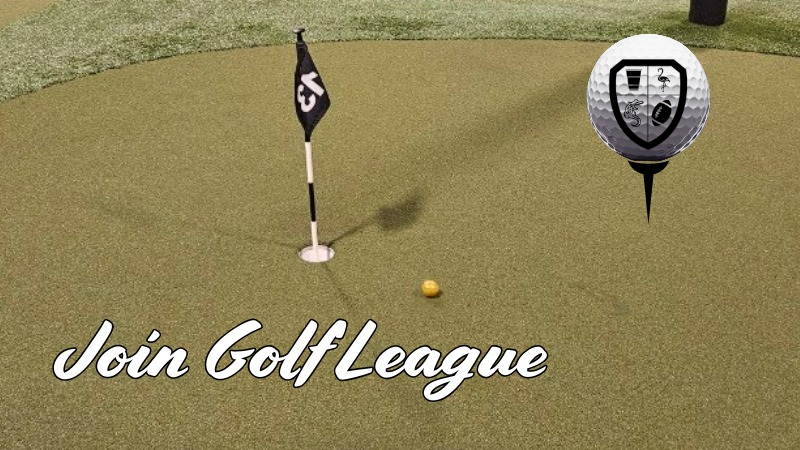
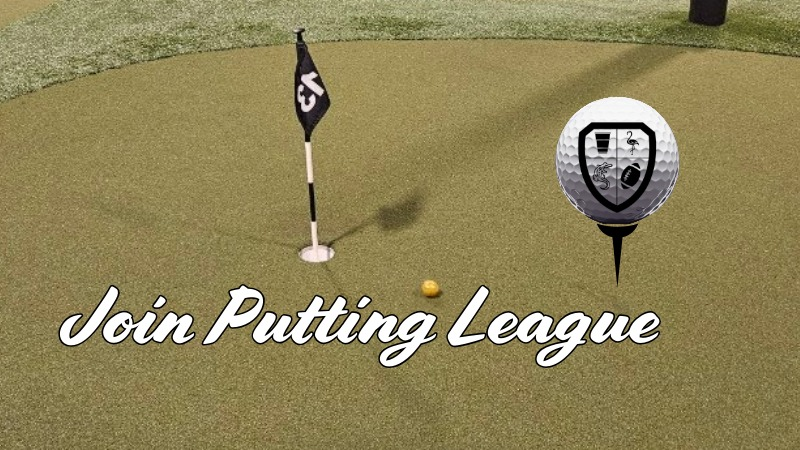
feat: update putting league ad and remove text overlay
- Replaced `public/putting-league-ad-final.jpg` with a new version that includes baked-in text.
- Modified `src/components/PuttingDashboard.jsx` to remove the overlaid text block (`Putting League` / `Sign Up Now`) since it's now part of the image itself.
- Adjusted the Framer Motion advertisement container classes to maintain full opacity (from 60%) to ensure the new image is clearly visible, while keeping a slight hover opacity fade effect.

Changed region(s): [[0.0625, 0.6222, 0.8438, 0.9022], [0.6875, 0.0622, 0.9062, 0.6222]]

diff --git a/src/components/PuttingDashboard.jsx b/src/components/PuttingDashboard.jsx
@@ -427,16 +427,8 @@ const PuttingDashboard = () => {
           <img
             src="/putting-league-ad-final.jpg"
             alt="Upcoming Putting League"
-            className="absolute inset-0 w-full h-full object-cover opacity-60 group-hover:opacity-40 transition-opacity duration-300"
+            className="absolute inset-0 w-full h-full object-cover opacity-100 group-hover:opacity-80 transition-opacity duration-300"
           />
-          <div className="relative z-10">
-            <h3 className="font-sports text-2xl text-white drop-shadow-lg group-hover:text-kelly-green transition-colors">
-              Putting League
-            </h3>
-            <p className="text-xs font-bold text-white uppercase tracking-wider mt-2 drop-shadow-md">
-              Sign Up Now
-            </p>
-          </div>
         </motion.a>
 
         {/* MIDDLE RIGHT: RECENT PERFORMANCE (Small Square) */}
